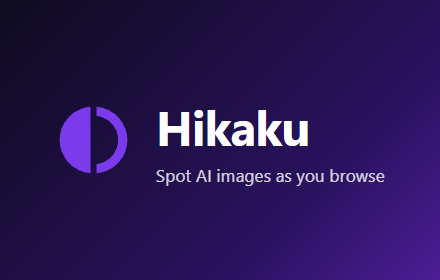
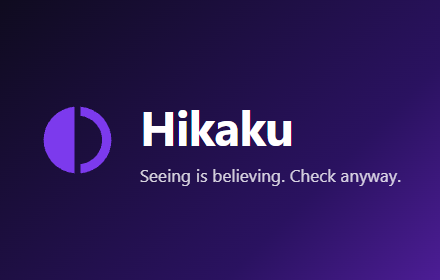
Firefox Add-ons listing, store auto-publishing, new slogan
- README: install Firefox from addons.mozilla.org; roadmap updated
- Release workflow uploads to the Chrome Web Store and Firefox Add-ons
  when their secrets are set (scripts/publish-chrome.mjs, docs/RELEASING.md)
- Slogan "Seeing is believing. Check anyway." in README, store text,
  promo images and the demo title card
- Reviewer notes name the two ONNX Runtime validator warnings as AMO shows them
- web-video and blur-listings encode frame by frame with WebCodecs, so
  output MP4s carry a real duration

Changed region(s): [[0.325, 0.3714, 0.7091, 0.5429], [0.0886, 0.3714, 0.2955, 0.6286], [0.2955, 0.6, 0.9159, 0.6857]]

diff --git a/docs/RELEASING.md b/docs/RELEASING.md
@@ -1,0 +1,46 @@
+# Releasing
+
+Once the extension is in the stores, shipping an update is one tag:
+
+```sh
+# bump "version" in manifest.json and package.json, add a CHANGELOG entry, then
+git commit -am "Release 0.2.0"
+git tag v0.2.0
+git push && git push --tags
+```
+
+The [release workflow](../.github/workflows/release.yml) then lints, tests and builds, creates the GitHub release with both zips, and uploads the new version to the Chrome Web Store and Firefox Add-ons. Each store reviews it (usually a few hours to a couple of days). After approval, browsers update everyone's installed copy on their own. Users don't have to do anything.
+
+The very first version has to be submitted by hand (see [store/README.md](../store/README.md)). The API can only update a listing that already exists.
+
+## One-time setup: Chrome Web Store
+
+You need five repository secrets. Add them under **Settings → Secrets and variables → Actions**.
+
+1. **CWS_PUBLISHER_ID**: Developer Dashboard → **Publisher → Settings**.
+2. **CWS_EXTENSION_ID**: the 32-letter ID on the item's **Package** tab.
+3. **CWS_CLIENT_ID** and **CWS_CLIENT_SECRET**:
+   - In [Google Cloud Console](https://console.cloud.google.com/), create a project and enable the **Chrome Web Store API**.
+   - Set up the OAuth consent screen (External is fine) and add your Google account as a test user.
+   - Create an OAuth client of type **Web application** with `https://developers.google.com/oauthplayground` as an authorized redirect URI.
+4. **CWS_REFRESH_TOKEN**:
+   - Open the [OAuth 2.0 Playground](https://developers.google.com/oauthplayground), click the gear, tick **Use your own OAuth credentials** and paste the client ID and secret.
+   - Enter the scope `https://www.googleapis.com/auth/chromewebstore`, authorize with the account that owns the listing, then **Exchange authorization code for tokens** and copy the refresh token.
+   - Publish the consent screen (move it out of Testing). While it's in Testing, Google expires refresh tokens after 7 days.
+
+The account needs 2-step verification turned on, or the store refuses to publish.
+
+To try it by hand without submitting for review: `node scripts/publish-chrome.mjs dist/hikaku-0.1.0-chrome.zip --upload-only` with those variables set. That leaves a draft you can check in the dashboard.
+
+Edge picks up the same Chrome package, but the Edge Add-ons store is separate and still a manual upload for now.
+
+## One-time setup: Firefox Add-ons
+
+1. Sign in at [addons.mozilla.org/developers/addon/api/key](https://addons.mozilla.org/developers/addon/api/key/) and generate credentials.
+2. Add them as secrets: **AMO_JWT_ISSUER** (the "JWT issuer") and **AMO_JWT_SECRET** (the "JWT secret").
+
+The workflow signs and submits with `web-ext sign --channel=listed` and attaches a source zip (`git archive` of the tag), which Mozilla's reviewers ask for because of the bundled ONNX Runtime.
+
+## If a step fails
+
+Store steps skip themselves when their secrets are missing, so a GitHub release still goes out. If an upload is rejected (most often because the version wasn't bumped, or a review is still pending for the previous version), fix it and re-run the job from the Actions tab, or upload the zip from the release by hand.

diff --git a/store/listing.md b/store/listing.md
@@ -8,7 +8,7 @@ Copy-paste text for both stores. Keep the claims here in line with what the exte
 
 **Summary** (shown under the name; max 132 characters):
 
-> Spot AI-generated images and video as you browse. Hikaku outlines them and shows you why. Everything runs on your device.
+> Seeing is believing. Check anyway. Hikaku outlines AI-generated images and video, and shows you why.
 
 **Category:** Tools
 
@@ -66,7 +66,7 @@ Copy-paste text for both stores. Keep the claims here in line with what the exte
 
 **Summary** (max 250 characters):
 
-> Spot AI-generated images and video as you browse. Hikaku outlines them, shows you the evidence behind each flag, and does all of it on your own computer. No account, no tracking.
+> Seeing is believing. Check anyway. Hikaku outlines AI-generated images and video as you browse, shows you the evidence behind each flag, and does all of it on your own computer. No account, no tracking.
 
 **Description:** use the Chrome description above (AMO allows basic formatting).
 
@@ -82,7 +82,7 @@ Copy-paste text for both stores. Keep the claims here in line with what the exte
 
 > Thanks for reviewing Hikaku. A few things that will save you time:
 >
-> 1. Third-party library. vendor/ort/ is ONNX Runtime Web 1.31.1 by Microsoft (MIT), copied unmodified from the npm package "onnxruntime-web@1.31.1", folder dist/. The two validator warnings (DANGEROUS_EVAL, UNSAFE_VAR_ASSIGNMENT) come from that library. SHA-256 of the shipped files:
+> 1. Third-party library. vendor/ort/ is ONNX Runtime Web 1.31.1 by Microsoft (MIT), copied unmodified from the npm package "onnxruntime-web@1.31.1", folder dist/. The two validator warnings ("The Function constructor is eval" in ort-wasm-simd-threaded.asyncify.mjs, and "Unsafe call to import" in ort.webgpu.min.mjs, which is ONNX Runtime loading its own WebAssembly glue file from inside the package) come from that library. SHA-256 of the shipped files:
 >    - ort.webgpu.min.mjs  329cd956772397a1aedd668e911195d39afefb182f6fc14aafa4f08ac8d8f379
 >    - ort-wasm-simd-threaded.asyncify.mjs  59cf781530e1a16df2a291d78798e3ec1152467edaec402d6f9599d85047c302
 >    - ort-wasm-simd-threaded.asyncify.wasm  ca319e9539cd0f1e291cf56074760121eaf39650f5dbf84b6e52c07f4b2944ec

diff --git a/README.md b/README.md
@@ -5,7 +5,7 @@
 <h1 align="center">Hikaku</h1>
 
 <p align="center">
-  <strong>See what's AI, right where you browse.</strong><br>
+  <strong>Seeing is believing. Check anyway.</strong><br>
   A browser extension that quietly flags AI-generated images and video, and shows you why. Everything runs on your device.
 </p>
 
@@ -48,14 +48,16 @@
 | 📋 | **C2PA signature verification** | Today credentials are read, not cryptographically verified |
 | 📋 | **Platform AI labels** | YouTube "Altered or synthetic", TikTok/Meta "AI info" |
 | 📋 | **AI-written text detection** | |
-| 📋 | **Chrome Web Store, Edge Add-ons, Firefox** | |
+| 🚧 | **Store listings** | [Firefox Add-ons](https://addons.mozilla.org/firefox/addon/hikaku/) submitted; Chrome Web Store and Edge Add-ons next |
 
 ✅ working · 🚧 in progress · 📋 planned
 
 ## Install
 
-From a release (recommended):
-1. Download `hikaku-x.y.z.zip` from the [latest release](https://github.com/hikaku-io/hikaku-extension/releases/latest) and unzip it.
+**Firefox** (140 or newer, desktop and Android): get it from [Firefox Add-ons](https://addons.mozilla.org/firefox/addon/hikaku/). It updates itself.
+
+**Chrome and Edge:** the Chrome Web Store listing is in review. Until then, install from a release:
+1. Download `hikaku-x.y.z-chrome.zip` from the [latest release](https://github.com/hikaku-io/hikaku-extension/releases/latest) and unzip it.
 2. Open `chrome://extensions` (or `edge://extensions`), turn on **Developer mode**, click **Load unpacked**, and pick the unzipped folder.
 3. Browse. The first image kicks off a one-time model download (~400 MB with a GPU, ~200 MB without). The popup shows progress.
 
